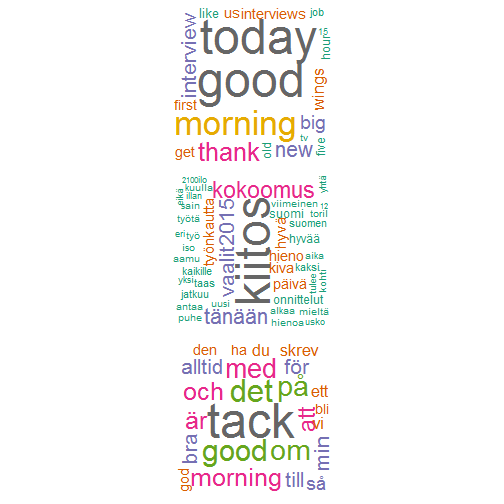
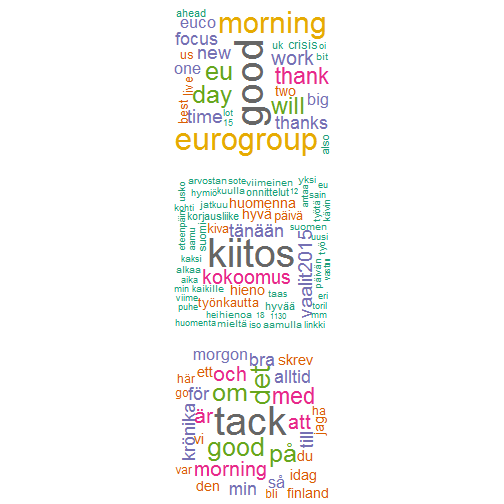
added to README

Changed region(s): [[0.3274, 0.0, 0.6548, 0.6548], [0.3274, 0.6845, 0.6548, 1.0]]

diff --git a/README.md b/README.md
@@ -155,7 +155,7 @@ par(mfrow= c(3,1))
 temp <- lapply(FREQ, function(lang) {
   suppressWarnings(
     wordcloud(lang$word, lang$freq,
-            scale = c(6,1),
+            scale = c(5,1),
             random.order=FALSE, colors=brewer.pal(8, "Dark2")))
 })
 ```
